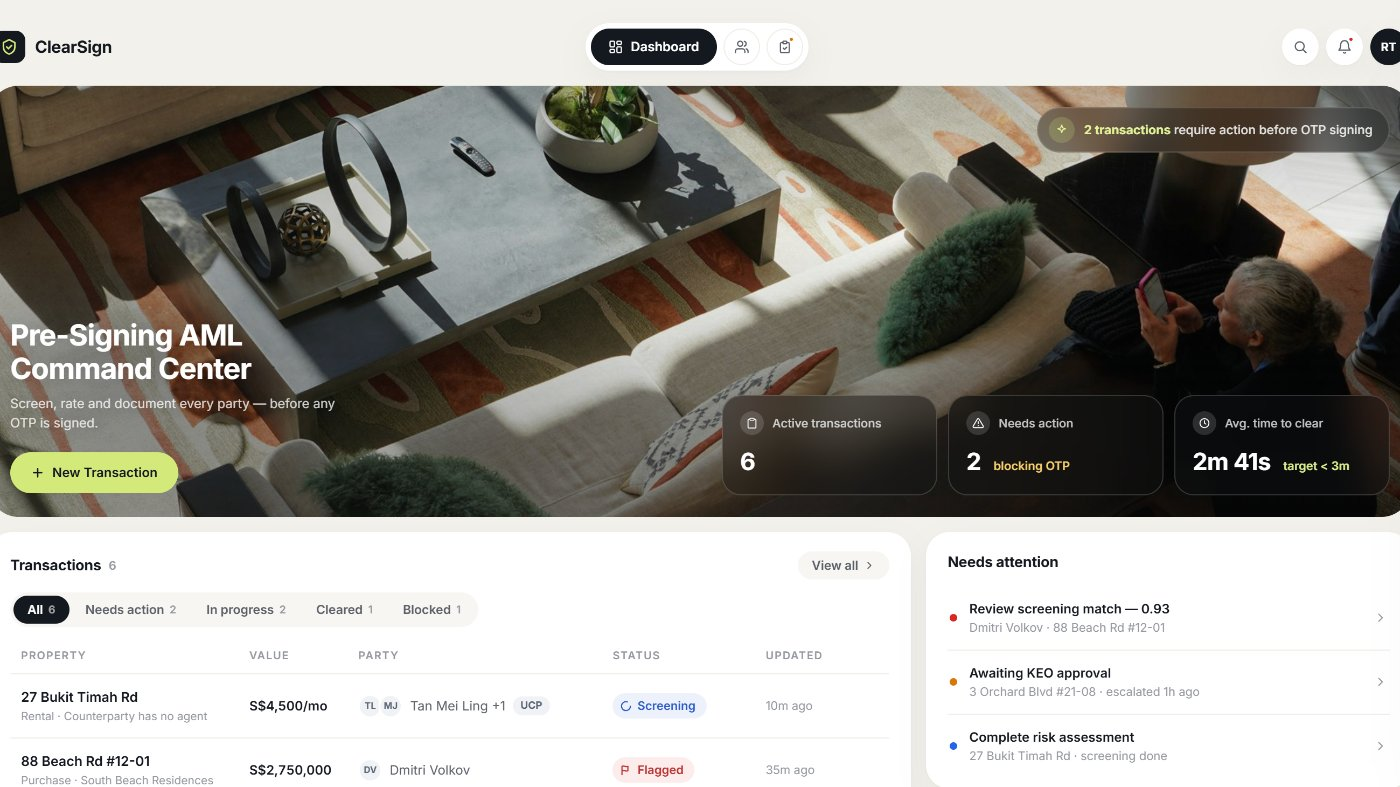
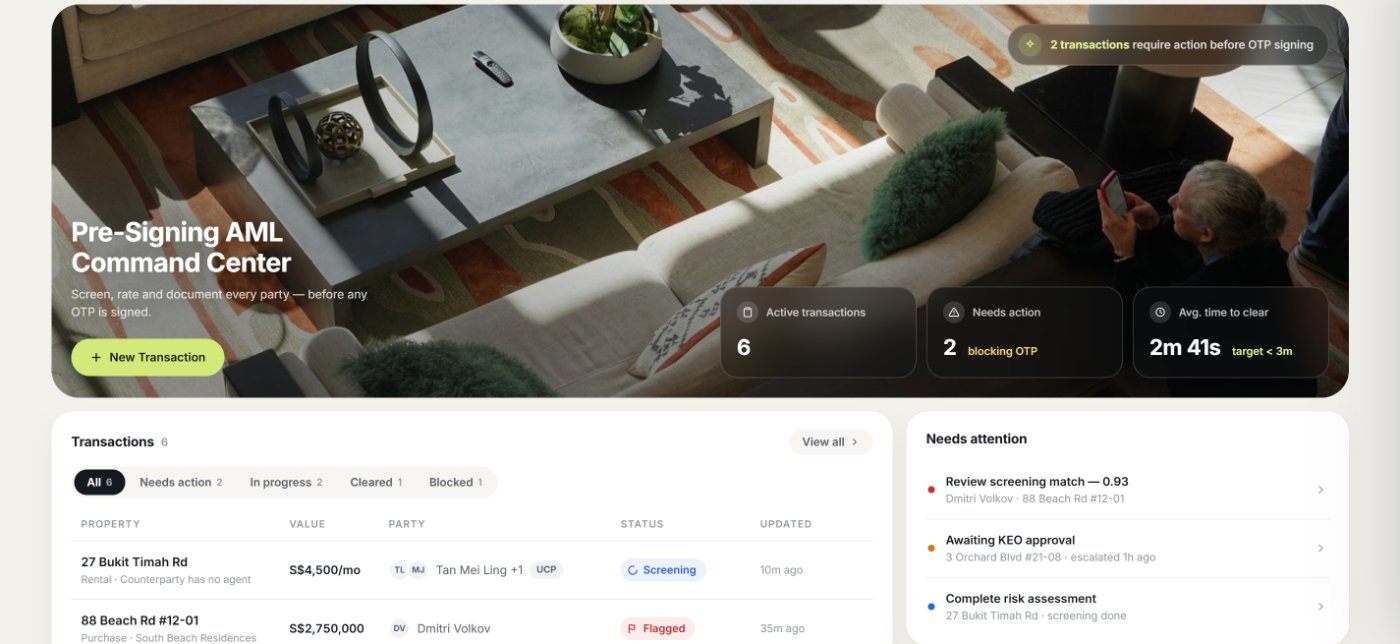
Fix ClearSign card crop: drop the header, tune the crop anchor
Two separate problems, both visible as "the corner looks cut off":

1. The first crop was centered and removed more width than the
   screenshot's own left padding, slicing into the "ClearSign" wordmark
   itself (real pixel data loss).
2. After fixing that, the logo was intact but the site's own "Case
   Study" badge chip (also anchored top-left, on every card) sat right
   on top of it, visually colliding two overlapping texts.

Fixed by cropping off the screenshot's nav-bar strip entirely — the
poster now leads with the hero photo, like every other homepage card
(none of which show literal app chrome). The remaining crop is wider
than any card ratio, so object-fit:cover still trims width live;
object-position: 14% keeps the headline text fully intact while the
trim falls on the least-important stat pill on the right. Verified at
both the desktop (1.78) and mobile (1.5) card ratios.

diff --git a/index.html b/index.html
@@ -129,7 +129,16 @@
         <article class="card" data-tag="Case Study" style="--ratio: 1.78;">
           <a class="card__link" href="#" data-wip aria-label="Open project: ClearSign">
             <div class="card__media">
-              <img src="Images/card-posters/clearsign.jpg" alt="ClearSign — compliance platform for property transactions" loading="lazy" decoding="async">
+              <!-- Poster (Images/card-posters/clearsign.jpg) is the dashboard
+                   screenshot with its top nav bar cropped off — the product's
+                   own "ClearSign" wordmark sat exactly where this site's
+                   "Case Study" chip is anchored, and the two collided. The
+                   remaining crop is wider than any card ratio, so
+                   object-fit:cover always trims width; object-position is
+                   nudged left (not 0, not centered) so the headline text
+                   stays fully intact while the trimmed edge falls on the
+                   least-important stat pill on the right. -->
+              <img src="Images/card-posters/clearsign.jpg" alt="ClearSign — compliance platform for property transactions" loading="lazy" decoding="async" style="object-position: 14% center;">
             </div>
             <footer class="card__meta">
               <h2 class="card__title">ClearSign</h2>
